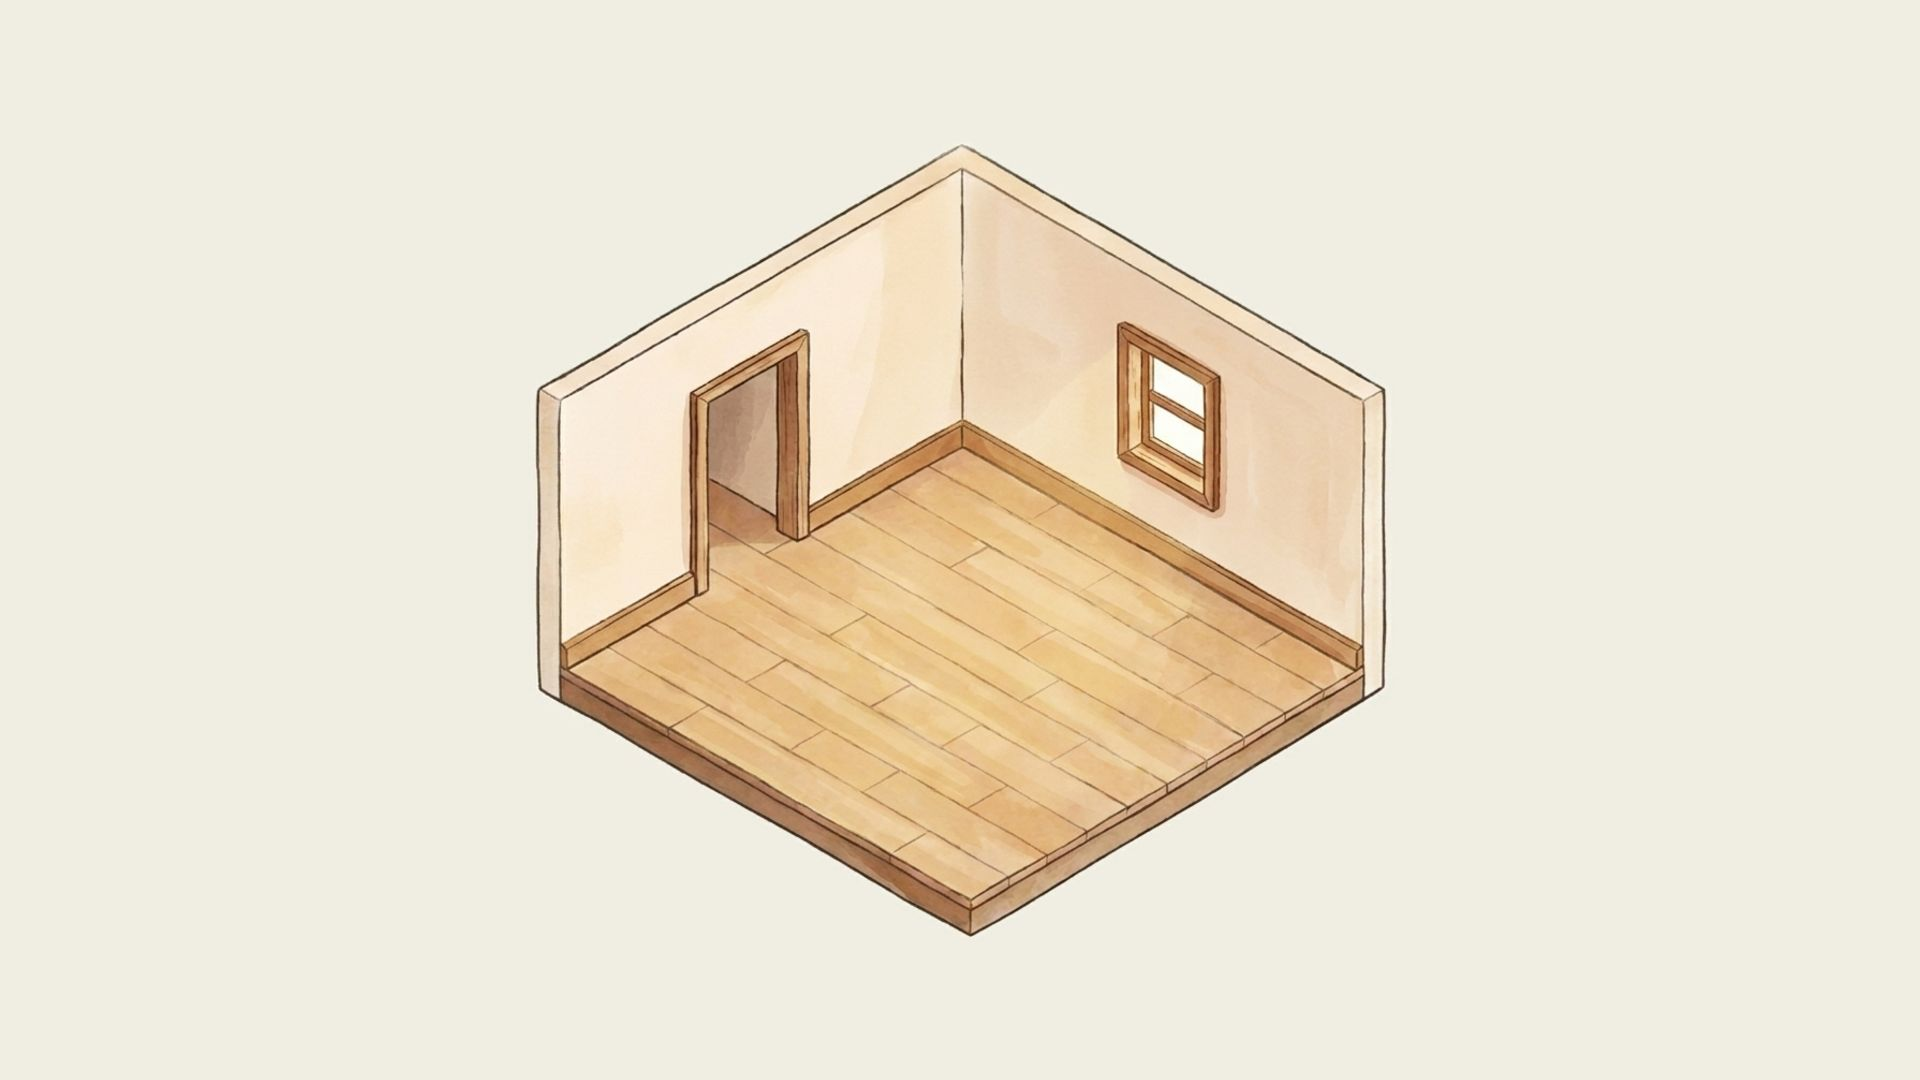
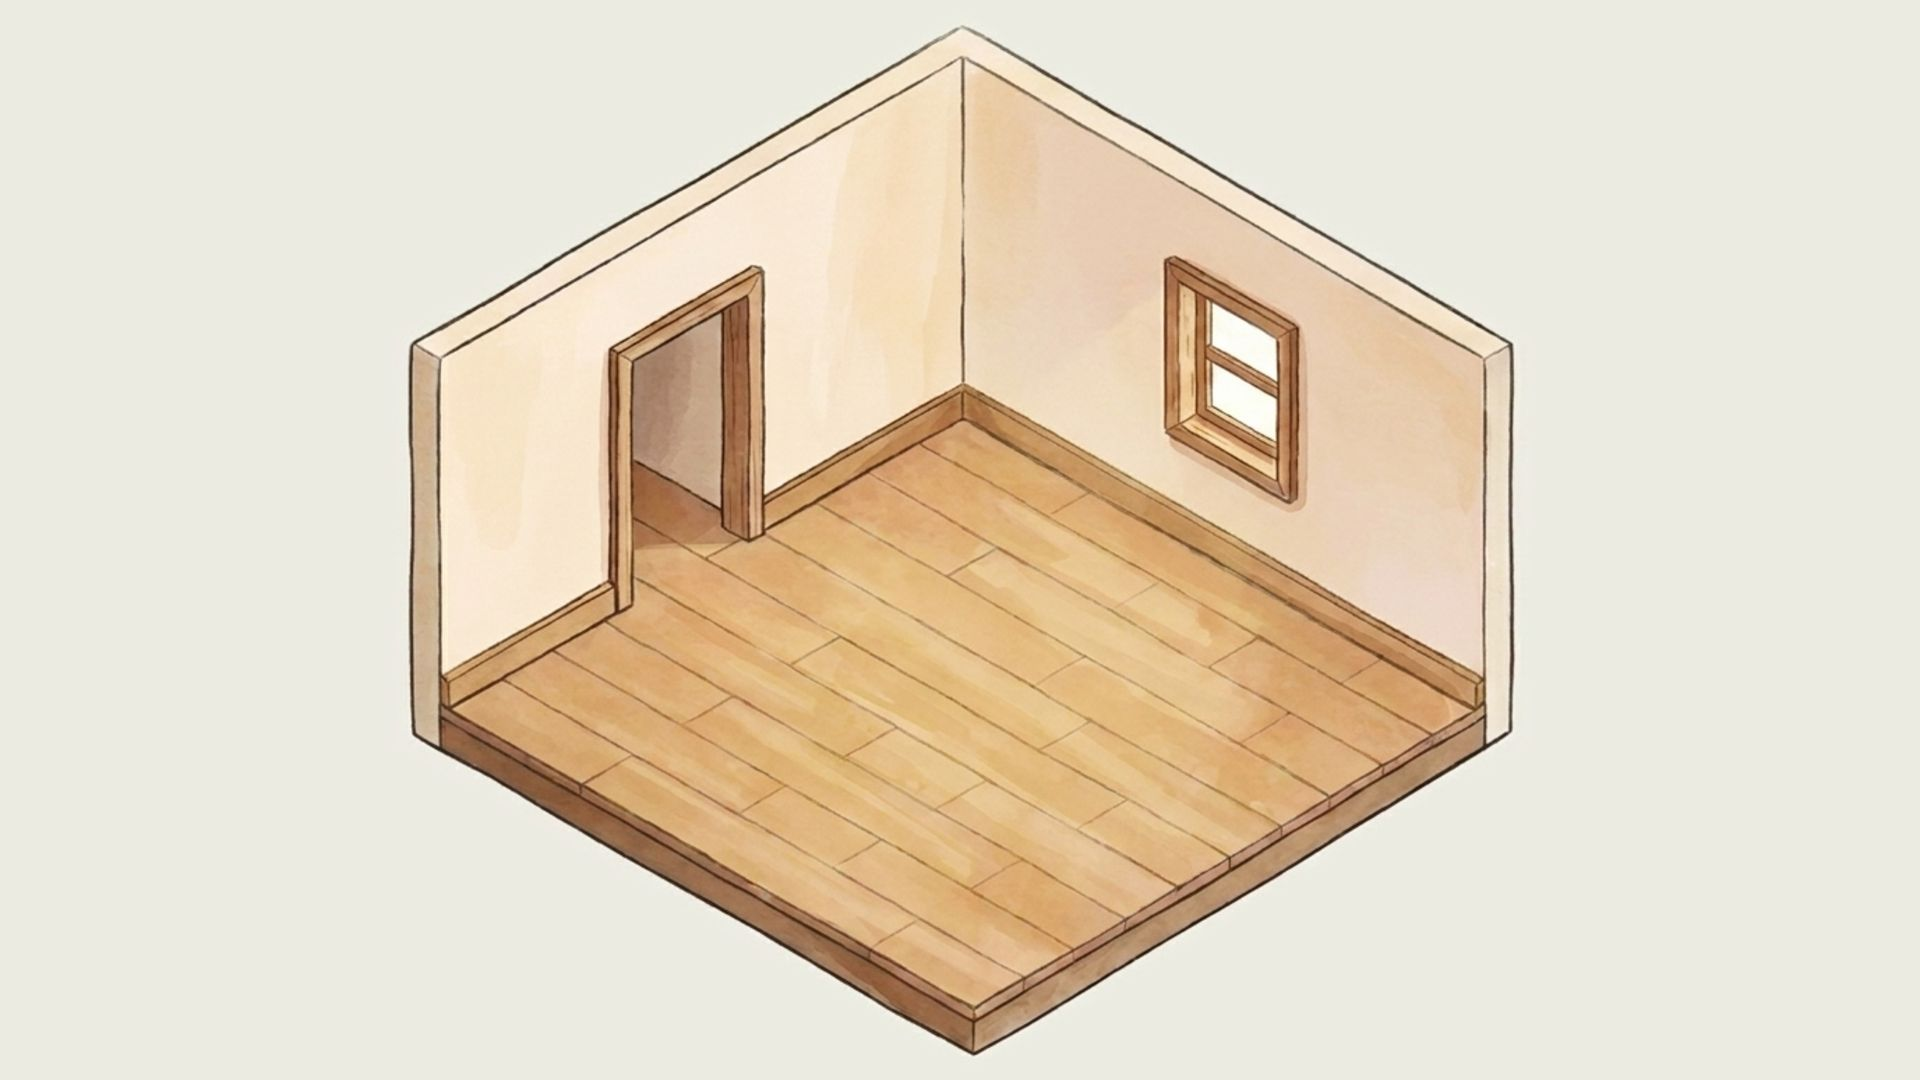
Integrate the larger room (candidate 3) and re-author the Dog room geometry (WORK-013I)
- rooms/dog-room: room-v2 candidate_003 (seed 13002) exported full-frame
  (1376x768 -> 1920x1072, centred) with the exterior-paper neutralisation,
  JPEG q0.8, via export-refinements.mjs + tools/assets/room-v2.config.json.
  Ledger replace: room-v1 row moved to history[], status ai-placeholder.
- export-refinements.mjs: optional sourceSubdirectory, PNG source MIME,
  optional per-item sourceSha256 guard. refinements-v1 output unchanged.
- dog-room.json: walk area, door rect/spawn, slots, anchors, wander points
  and pet spawn mapped from the room-v1 floor quad to the measured room-v2
  floor quad (bilinear); wall-slot bases by per-wall affine. Ids, size
  classes, adjacency, door target, resident unchanged. owl-room unchanged.

Changed region(s): [[0.1875, 0.0306, 0.8125, 0.9778]]

diff --git a/talvi-pet-prototype/game/README.md b/talvi-pet-prototype/game/README.md
@@ -44,6 +44,7 @@ With the flag, both exit 0 on the current tree (`--strict` makes warnings exit 2
 
 - `tools/assets/export-alpha.mjs source.png dest.png width height [alpha-cutoff]`: deterministic native-alpha fit onto a fixed canvas.
 - `tools/assets/export-refinements.mjs --project <game-root> --config game/tools/assets/refinements-v1.config.json --out <staging-dir>`: reproduces the room and furniture exports from their sources. Run it from the game root.
+  - `room-v2.config.json` reproduces the current `rooms/dog-room` (room candidate 3). Its room uses a full-frame uniform fit (`bandTop: 0`, `bandHeight: 1080`: the whole source is scaled to the 1920 width and centred, no phone-band fit). `sourceSubdirectory` (default `sources`) names the folder under `sourceDirectory`; `""` reads `sourceDirectory` itself. An item's optional `sourceSha256` makes the export refuse a source with different bytes.
 - `npx tsx tools/assets/refit.ts --config tools/assets/refit-half-v1.config.json --out <staging-dir>`: deterministic re-fit (pure Node, no browser). Reads each source from a Git revision and checks its SHA-256, scales every frame's artwork uniformly about the frame's bottom centre by `fitFraction` of the reference frame's opaque height (rounded down to a whole pixel), keeps the canvas and frame grid, and writes PNGs plus `refit-report.json`. WORK-013H used it for the half-size Dog sheet and bed.
 - `tools/panels.html` (`/tools/panels.html` on the dev server): UI panel and state gallery, plus a contact sheet of every manifest row.
 - `tools/asset-trial.html` (`/tools/asset-trial.html?height=1080&guides=1&clip=idle`): inspection harness for the Dog sheet, tags, portrait and clue on hash-verified loads.
